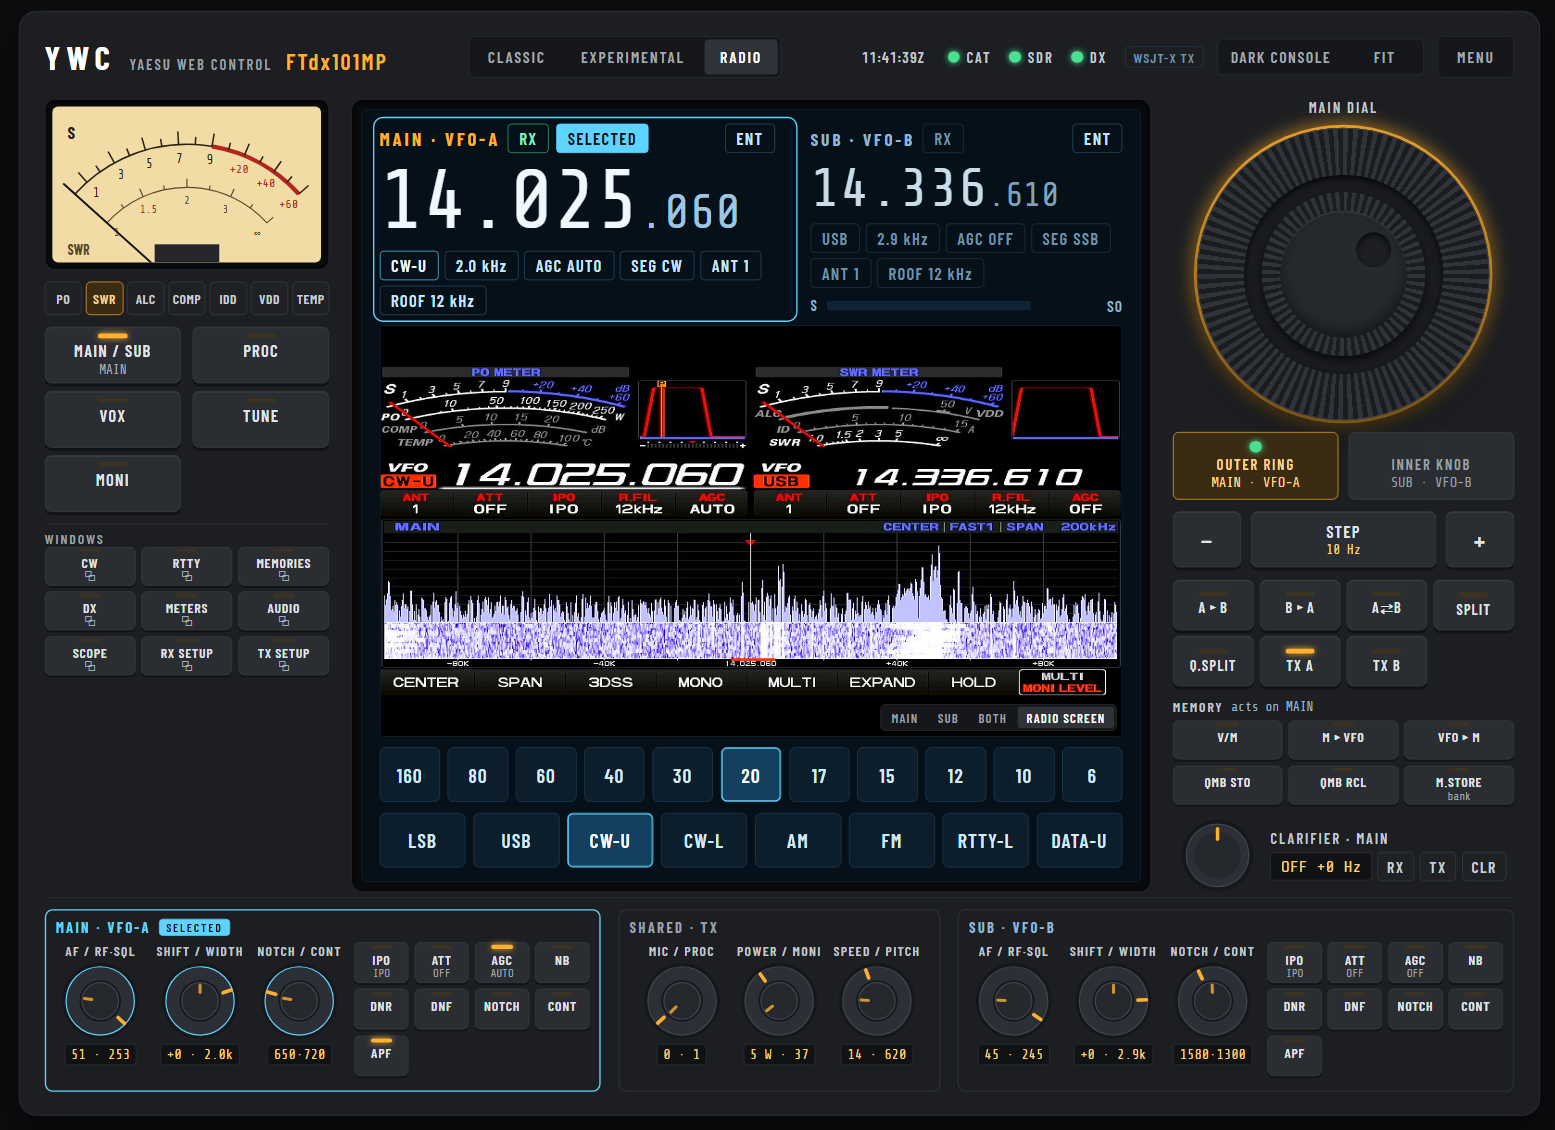
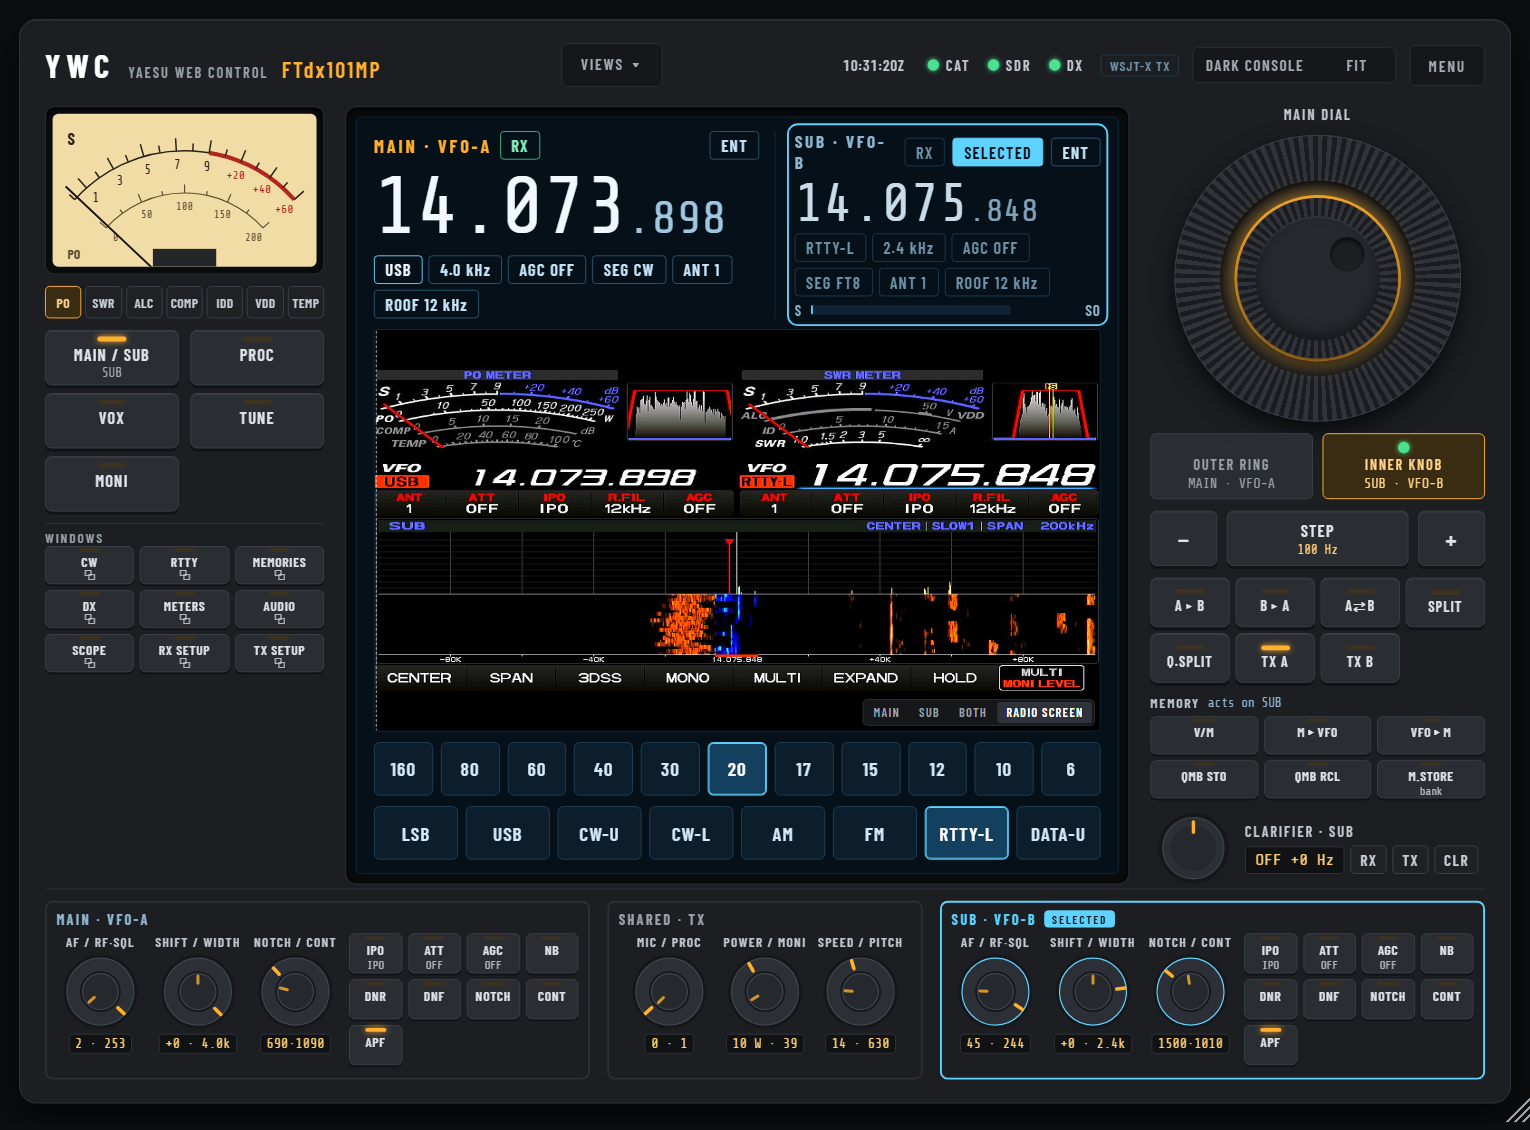
YWC: a current picture of the Radio panel showing the radio's TFT screen

diff --git a/index.html b/index.html
@@ -316,7 +316,7 @@
                         <button aria-pressed="true" data-src="pictures/Radio_Both_SDRs.png"
                             data-alt="YWC Radio panel on an FTdx101MP, with an SDR spectrum and waterfall for the Main and Sub receivers one above the other">Radio panel · both SDRs</button>
                         <button aria-pressed="false" data-src="pictures/Radio_Dark_Console.png"
-                            data-alt="YWC Radio panel in the Dark Console theme, showing the radio's own TFT screen">Radio panel · TFT screen</button>
+                            data-alt="YWC Radio panel on an FTdx101MP, with the radio's own TFT screen, captured from its DVI socket, in place of the spectrum">Radio panel · TFT screen</button>
                         <button aria-pressed="false" data-src="pictures/Radio_Night_Console.png"
                             data-alt="YWC Radio panel in the Night Console theme">Radio panel · Night</button>
                         <button aria-pressed="false" data-src="pictures/Radio_Silver_Classic.png"
